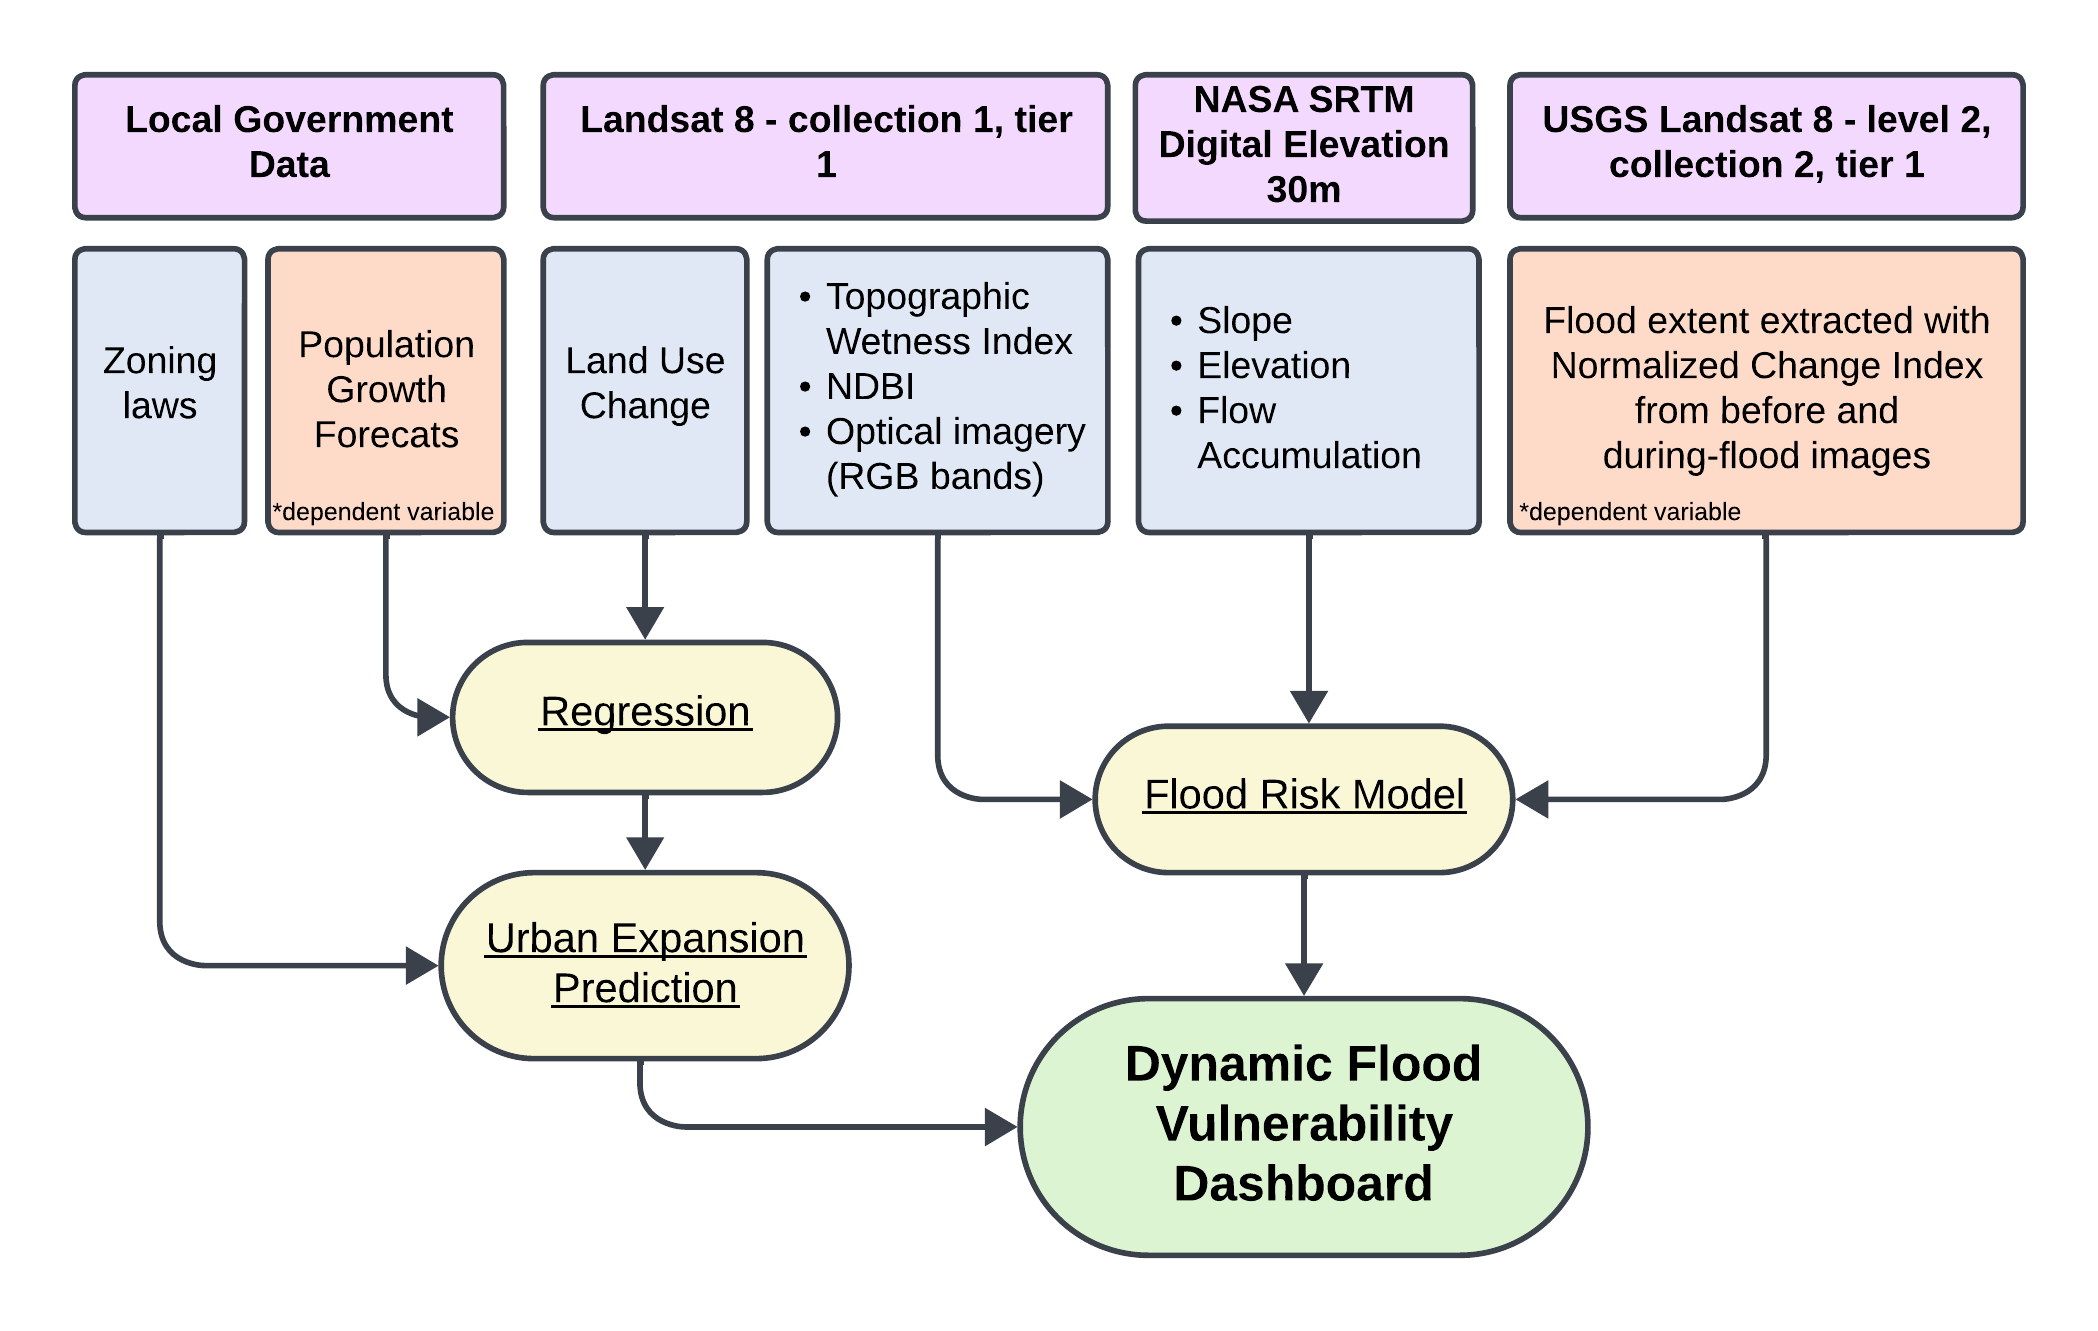
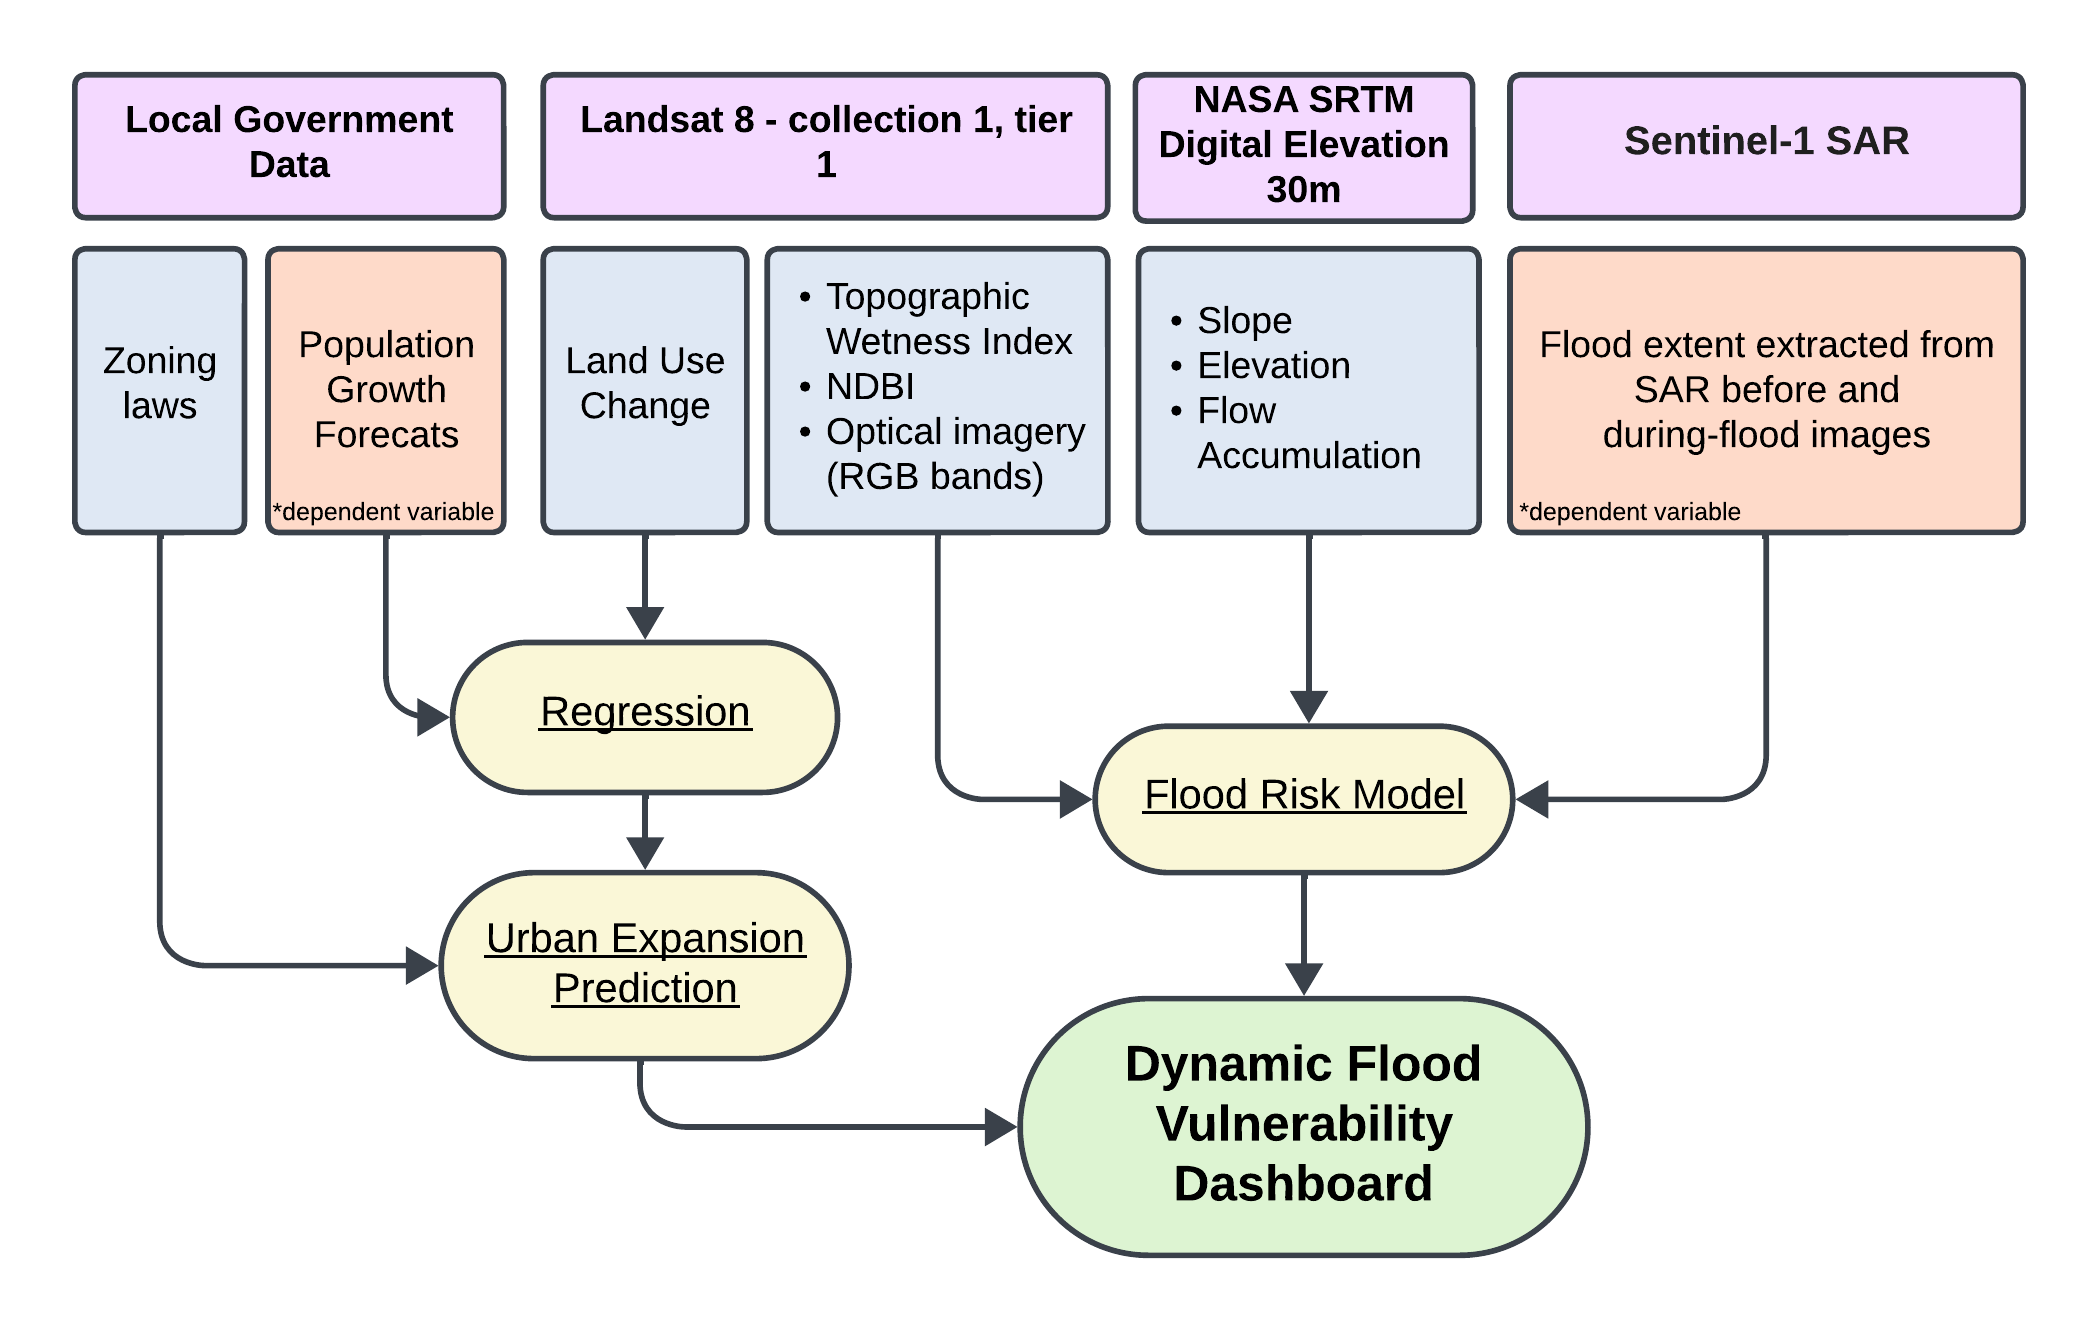
changed method for flood extraction

Changed region(s): [[0.7126, 0.2156, 0.9604, 0.3696], [0.7436, 0.0616, 0.9295, 0.154]]

diff --git a/Presentation/XaringanPres.html b/Presentation/XaringanPres.html
@@ -224,7 +224,7 @@ class: inverse, center, middle
 .pull-left[
 **Dependent variable** 
 
-A proxy of flooded areas could be quantified e.g. with a Normalized Change Index of NDWI images before and during a flooding event &lt;a name=cite-vanama2021change&gt;&lt;/a&gt;([Vanama, Rao, and Bhatt, 2021](#bib-vanama2021change)).
+A proxy of flooded areas will be extracted from the difference in SAR images before and during a flooding event .
 ]
 
 .pull-right[
@@ -405,6 +405,11 @@ vision to 2050 United Nations Development Programme_.
 # References (2/2)
 
 .bibliography[
+
+```
+## Warning in `[[.BibEntry`(x, ind): subscript out of bounds
+```
+
 &lt;a name=bib-thianFloodVulnerabilityAssessment2022&gt;&lt;/a&gt;[Thi An, T., S.
 Izuru, T. Narumasa, et
 al.](#cite-thianFloodVulnerabilityAssessment2022) (2024). "Flood
@@ -429,12 +434,6 @@ Agreement_. UN Treaty
 &lt;a name=bib-Agenda2023&gt;&lt;/a&gt;[United Nations](#cite-Agenda2023) (2015b).
 _Transforming our world: the 2030 Agenda for Sustainable Development_.
 General Assembly
-
-&lt;a name=bib-vanama2021change&gt;&lt;/a&gt;[Vanama, V., Y. Rao, and C.
-Bhatt](#cite-vanama2021change) (2021). "Change detection based flood
-mapping using multi-temporal Earth Observation satellite images: 2018
-flood event of Kerala, India". In: _European Journal of Remote Sensing_
-54.1, pp. 42-58.
 
 &lt;a name=bib-vietnamtourismReasonsWhyNang&gt;&lt;/a&gt;[Vietnam
 Tourism](#cite-vietnamtourismReasonsWhyNang) (2024). _4 Reasons Why Da

diff --git a/Presentation/XaringanPres.knit.md b/Presentation/XaringanPres.knit.md
@@ -1,0 +1,14 @@
+---
+title: "A Flood Resilience Strategy for Da Nang"
+subtitle: ""
+author: "Gerardo Ezequiel Martín Carreño, Nikhil Desai, Soki Kimura, Jan Magnszewski, Viktoria Pues, Gavin Rolls"
+date: "22 March 2024"
+output:
+  xaringan::moon_reader:
+    css: xaringan-themer.css
+    lib_dir: libs
+    nature:
+      highlightStyle: solarize
+      highlightLines: true
+      countIncrementalSlides: false
+---
